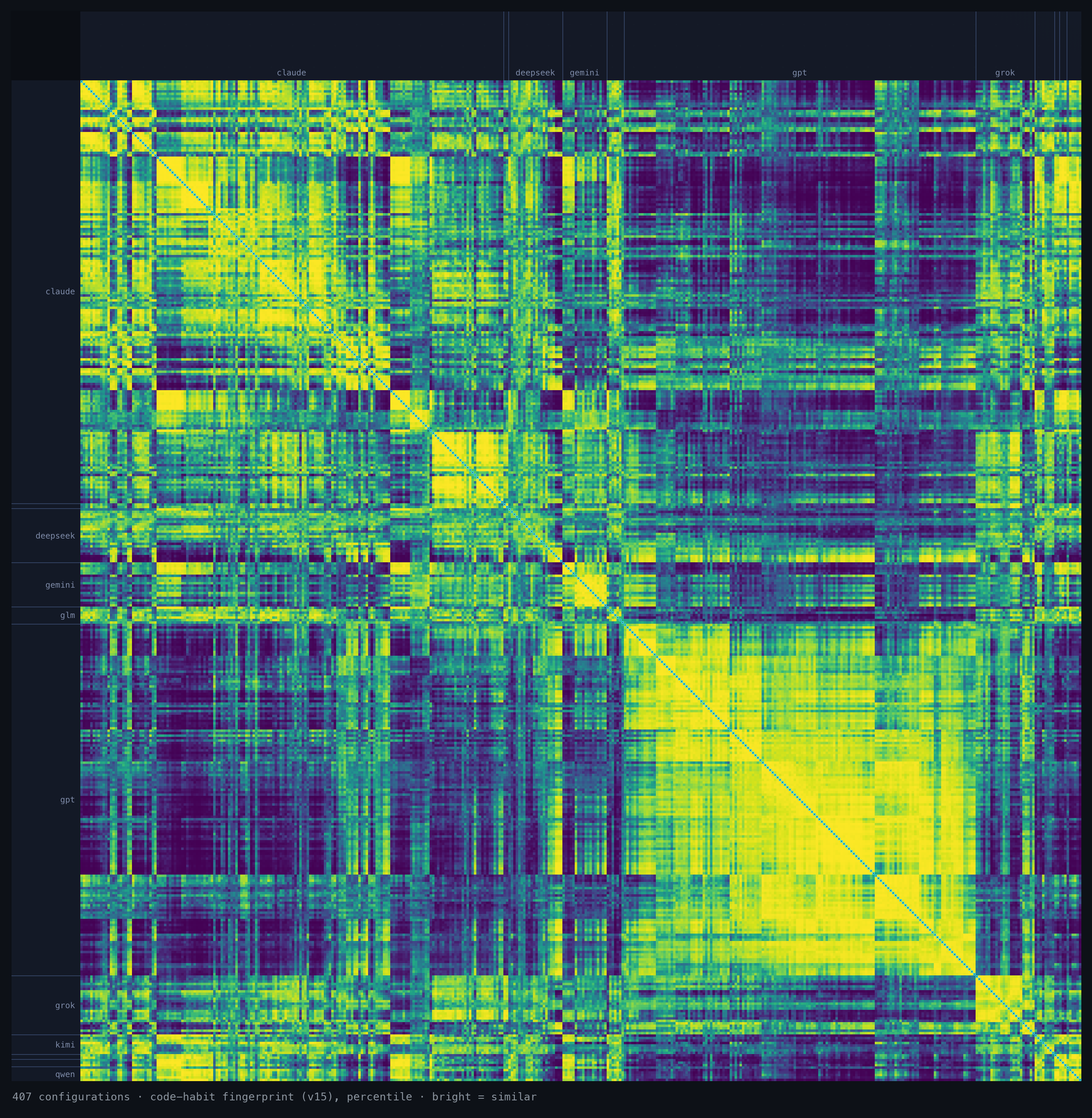
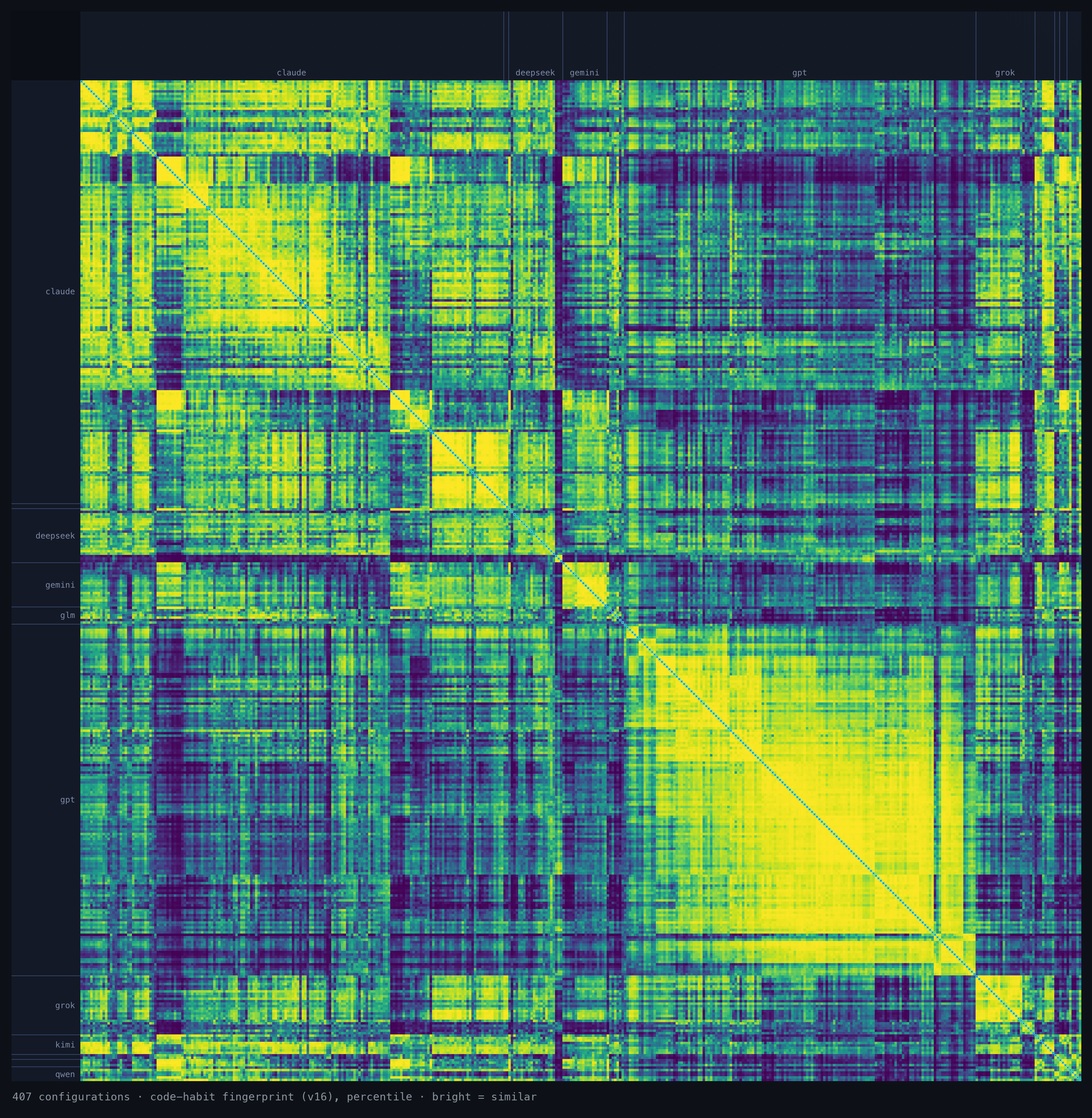
findings on fingerprint v16; withdraw the high-effort convergence claims
v15 pulled configs that resemble nobody (mostly long, high-effort cards)
towards each other. v16 takes card size out first and keeps a quarter of
the centering. Two claims rested on the inflation and are withdrawn: that
high-effort Claude and GPT converge, and that DeepSeek V4.1 sits in that
zone; the README says so in a correction note. What remains is the
directly counted defensive idioms. The other findings hold under every
scoring variant tested and carry v16 numbers; the GPT lineage is toned
down to an ordinary same-family level, and the shared-harness lift is
6-7 points, not 1-2. matrix.png shows the v16 view.

diff --git a/README.zh.md b/README.zh.md
@@ -31,9 +31,9 @@ MIT
 构建数据集过程中的描述性测量 —— 是信号,不是定论(单一 prompt 家族、小 N)。每一条都能在站点上回溯到产生它的原始数据。相似度相关的发现都基于**代码习惯指纹**([见下](#从矩阵里才看得到的)),描述的是*代码怎么写*,从不推断模型从哪来。
 
 - **Claude 2025 年的写法,比 Claude 自己活得久。** Claude Sonnet 4 / 4.5、Opus 4.5、Haiku 4.5 写得像 MiniMax M2.x、豆包 Seed 2.1 Pro、Grok 4.3、DeepSeek V3.2、Qwen3-Coder-Next 和 Gemini 3 Flash —— 却不再像 Claude Opus 4.8 / Claude 5。
-- **高 effort 下 Claude 和 GPT 开始写得一样 —— 而 DeepSeek V4.1 本来就这么写**,几乎任何 effort 档都是。
-- **有的厂商换代就换了一手写法,GPT 从来没换。** DeepSeek V4.1 和 Kimi K3 和自家前代断开了;GPT-6 写起来仍像 GPT-5。
-- **harness 改变模型画多少,不改变它怎么写。** 同一个模型换一个 harness,代码习惯不变;变的是外观,以及最主要的 —— 体量。
+- **有的厂商换代就换了一手写法。** DeepSeek V4.1 和 Kimi K3 和自家前代断开了;GPT-6 写起来仍是 GPT 的样子。
+- **高 effort 写得更"防御"。** 处理"减少动画"偏好、取消过期请求,在多数高 effort 的 Claude Opus 5.x 和 GPT Sol 卡里出现,低 effort 几乎从不出现。
+- **harness 改变模型画多少,不改变它怎么写。** 同一个模型换一个 harness,代码习惯不变;变的是体量。
 - **effort 能把输出体积翻好几倍 —— 某个模型上高达 14×。** 更多"思考"不是多写一点代码,可能是多一个数量级。
 - **在有些模型上,effort 旋钮测不出任何区别。** 参数被接受,输出纹丝不动。
 - **effort 梯子随代际变长。** GPT 的 `max` 档从 gpt-5.6 起才有 —— 更早的 GPT 模型一律不接受,更新的都有。
@@ -50,28 +50,29 @@ MIT
 
 ### 从矩阵里才看得到的
 
-> **这个数是什么。** 每一对 configuration 在十条代码通道上比较 —— token shingle、winnowing 指纹、特征集合、JS 语法树、CSS 属性与取值、布局、命名、颜色字面量、语义标记。每条通道先扣掉各个 config 自己的基线(有些卡跟*谁*都有点像,那不算像某一个具体的谁),再按"这条通道多能区分模型"学出来的权重合并,最后显示为**在全部跨配对中的百分位**:0.50 是两个不同厂商的一对典型配对,同一模型的两个 config 大约在 0.97。像素是单独的**外观**视角,不进这个分数。百分位相对于当前集合,集合变了就重新拟合。
+> **这个数是什么。** 每一对 configuration 在十条代码通道上比较 —— token shingle、winnowing 指纹、特征集合、JS 语法树、CSS 属性与取值、布局、命名、颜色字面量、语义标记。先去掉卡片体积的影响:原始相似度取决于两张卡有多长,所以每一对都和"同样两种体积的配对"的平均值比较。再扣掉每个 config"和谁都有点像"的四分之一,按"这条通道多能区分模型"学出来的权重合并,最后显示为**在全部跨配对中的百分位**:0.50 是两个不同厂商的一对典型配对,同一模型的两个 config 大约在 0.97。像素是单独的**外观**视角,不进这个分数。百分位相对于当前集合,集合变了就重新拟合。
 >
-> 为什么看代码不看像素:在按模型留出的交叉验证里,指纹认出同一模型的 **AUC 是 0.91**,认出同一家族 **0.74**,跨 effort 档认出同一模型 **0.90**;外观视角只有 **0.76 / 0.59**,旧的全通道等权合并是 **0.87 / 0.68**。卡片*长什么样*,各家越来越趋同;*怎么写*,则不然。
+> 为什么看代码不看像素:在按模型留出的交叉验证里,指纹认出同一模型的 **AUC 是 0.92**,认出同一家族 **0.74**,跨 effort 档认出同一模型 **0.92**;外观视角只有 **0.74 / 0.57**,旧的全通道等权合并是 **0.87 / 0.68**。卡片*长什么样*,各家越来越趋同;*怎么写*,则不然。
+>
+> **一处更正。** 这个分数的第一版(v15,上线了几天)把每个 config"和谁都像"的部分整个扣掉。这会把和谁都不像的 config —— 多是又长又高 effort 的卡 —— 推到一起,而这里发布过的两条发现正建立在它上面:高 effort 的 Claude 和 GPT 写法趋同,以及 DeepSeek V4.1 落在这个"前沿区"。直接处理卡片体积之后,两条都不成立,已撤回。方法论页有完整对比。
 
-下面的数字都是 585 个 configuration 集上的百分位,给两个数时是 `P-min` / `P-q`。是信号不是证明:单一 prompt 家族,而且有些模型 config 很少 —— 这些都标出来了。
+下面的数字都是 585 个 configuration 集上的百分位,给两个数时是 `P-min` / `P-q`。是信号不是证明:单一 prompt 家族,而且有些模型 config 很少 —— 这些都标出来了。下面每一条在我们测过的、认人能力不低于它的各种评分方案下都成立,不只是这里显示的这一种。
 
-- **家族是真实的分组。** 一个 config 和自己重跑最像(`P-min` 上 **0.958**),和自家家族次之(**0.699**),和别家最不像(**0.441**)。
-- **Claude 2025 年的写法,比 Claude 自己活得久。** Claude Sonnet 4 / 4.5、Opus 4.5、Haiku 4.5 和 MiniMax M2.1–M2.7、豆包 Seed 2.1 Pro、Grok 4.3、DeepSeek V3.2、Qwen3-Coder-Next、Gemini 3 Flash / 3.1 Pro 组成一个紧密的簇:跨厂商配对在两个 prompt 上都是 **0.96–1.00** —— 和同一模型的两个 config 一样近 —— 跨 harness、跨 effort、十条代码通道全部一致。Claude 自己却走开了:Claude 4.5 对 Claude Opus 4.8 / Claude 5 只有 **0.44 / 0.23**,和两个不相干的厂商一样远。一行标志性代码 `const today = new Date().toISOString().split('T')[0];` 出现在 63% 的 Claude Sonnet 4/4.5 卡、34% 的其他成员卡里,而 571 张 Claude Opus 4.8+ 卡一张都没有。同时期的 GPT 从未加入。
-- **高 effort 下 Claude 和 GPT 开始写得一样。** Claude Opus 5 / 5.5 和 GPT Sol 在 none–medium 档相距很远(**0.40 / 0.41**),到 xhigh 及以上却汇合(**0.90 / 0.78**),五个 harness 上都成立。普通跨家族配对从高 effort 里几乎得不到什么(0.37 → 0.43),所以这不是"长答案都相像"。共同的代码是防御型工程写法 —— `prefers-reduced-motion` 处理、用 `AbortController` 中止过期请求、`finally` 收尾 —— 低档 Sol 的卡几乎从不出现(0–2%)。这也解释了为什么**满档 Claude 5.5 离别家比离自家还近**(`claude-opus-5-5 @max`:`P-min` 上对 Claude **0.33**,对其余所有人 **0.56**)。
-- **DeepSeek V4.1 写在这个前沿区里。** 1017 构建对高档 Claude/GPT 这组是 **0.86 / 0.91** —— 其他厂商 49 个模型里最近的 —— 对低档 GPT Sol 只有 **0.54 / 0.37**,官方 API 和 DeepSeek 自家 dsh harness 上都成立。和 Claude、GPT 不同,它几乎任何 effort 档都到得了。0910 构建已经很近(**0.71 / 0.85**)。DeepSeek 的 dsh harness 比 API 更常出现这些防御写法(reduced-motion 88% 对 25% 的卡);指纹结论在两边都成立。
-- **有的厂商换代就换了一手写法,GPT 从来没换。** GPT-6 对 GPT-5.x 仍是 **0.86 / 0.81**(3,300 个 config 对)。DeepSeek V4.1 对所有更早的 DeepSeek:**0.56 / 0.49** —— 相当于不相干的一对 —— 而它自己的两个构建之间是 **0.82 / 0.89**。Kimi K3 对 Kimi K2.x:**0.56 / 0.55**;K3 反而更靠近 Claude Fable 5 / Opus 4.8(**0.84 / 0.82**,500+ 个 config 对)。
-- **代码是模型写的,不是 harness 写的。** 同一模型同一 effort 换一个 harness,是 **0.99 / 0.98** —— 和它自己重跑一样 —— 两个不同家族的模型共用一个 harness 也只多 1–2 个点。外观视角确实会动(跨 harness **0.88–0.89**,重跑是 **0.92–0.94**),体量动得最多。
-- **有些模型和自己都不像。** `kimi-k3 @high`(**0.51 / 0.61**)和 `deepseek-v4-pro-0812 @high`(`P-min` 上 **0.68**)自一致性最低 —— 多数重跑画得都不一样。全集有 105 个 config 拿得到读数:它需要同一 config 在同一变体下有好几次重跑。
+- **家族是真实的分组。** 一个 config 和自己重跑最像(`P-min` 上 **0.94**),和自家家族次之(**0.70**),和别家最不像(**0.44**)。
+- **Claude 2025 年的写法,比 Claude 自己活得久。** Claude Sonnet 4 / 4.5、Opus 4.5、Haiku 4.5 和 MiniMax M2.1–M2.7、豆包 Seed 2.1 Pro、Grok 4.3、DeepSeek V3.2、Qwen3-Coder-Next、Gemini 3 Flash / 3.1 Pro 组成一个紧密的簇:跨厂商配对在两个 prompt 上是 **0.87–1.00**,MiniMax 是 **0.98 / 0.98** —— 和同一模型的两个 config 一样近 —— 跨 harness、跨 effort、十条代码通道全部一致。Claude 自己却走开了:Claude 4.5 对 Claude Opus 4.8 / Claude 5 只有 **0.22 / 0.14**,比两个不相干的厂商还远。一行标志性代码 `const today = new Date().toISOString().split('T')[0];` 出现在 63% 的 Claude Sonnet 4/4.5 卡、34% 的其他成员卡里,而 571 张 Claude Opus 4.8+ 卡一张都没有。同时期的 GPT 从未加入。
+- **有的厂商换代就换了一手写法。** DeepSeek V4.1 对所有更早的 DeepSeek:**0.54 / 0.46** —— 相当于不相干的一对 —— 而它自己的两个构建之间是 **0.75 / 0.73**。Kimi K3 对 Kimi K2.x:**0.53 / 0.62**;K3 反而更靠近 Claude Fable 5 / Opus 4.8(**0.89 / 0.82**,400+ 个 config 对)。GPT-6 对 GPT-5.x 是 **0.75 / 0.73**,普通的同家族水平。
+- **高 effort 写得更"防御"。** 直接数卡片里的代码:`prefers-reduced-motion` 处理、用 `AbortController` 中止过期请求,出现在 55–69% 的高 effort(xhigh 及以上)Claude Opus 5.x 和 GPT Sol 卡里,低 effort 的 GPT Sol 卡只有 0–2%。DeepSeek V4.1 1017 的 API 卡有 25–33% 这样写,DeepSeek 自家 dsh harness 出的卡是 88%。在整份代码的指纹上,这**并不**让这些模型变得相像 —— 这是三种写法,不是共同的风格。
+- **代码是模型写的,不是 harness 写的。** 同一模型同一 effort 换一个 harness,是 **0.99 / 0.99** —— 和它自己重跑一样(**0.98 / 0.99**)—— 两个不同家族的模型共用一个 harness 只多 6–7 个点(**0.49** 对 **0.42**),而"同一模型"和"不同厂商"之间差了约 50 个点。harness 真正改变的是体量。
+- **有些模型和自己都不像。** `deepseek-v4-flash-vision-exp @high`(`P-min` 上 **0.40**)、`kimi-k2.7-code`(**0.41**)和 `kimi-k3 @high`(**0.45 / 0.40**)自一致性最低 —— 多数重跑画得都不一样。全集有 105 个 config 拿得到读数:它需要同一 config 在同一变体下有好几次重跑。
 
 **值得一提的配对** —— 信号强,但样本小:
 
-- **Qwen3.8-Max-Preview 写得像 Claude Opus 4.6**(**1.00 / 1.00**,比像任何 Qwen 都近),连 HTML 转义 helper `var d = document.createElement('div')` 都一样 —— 64% 的 Opus 4.6 卡有它,别处几乎没有。只有一个 config、4 张卡。MiMo-V2.5-Pro 也有同样的拉力(**0.97 / 0.96**,66 个 config 对)。
-- **Cursor 的 Composer 2.5 写得像 Grok 4.5**(**0.98 / 0.94**,跨四个 Grok harness),CSS 词汇一模一样(`--bg-deep`、`--card-bg: rgba(255,255,255,0.07)`);`--bg-deep` 在其余 2,436 张卡里只出现 2 次。只有一个 config、8 张卡。
+- **Qwen3.8-Max-Preview 写得像 Claude Opus 4.6**(**0.99 / 0.99**,比像任何 Qwen 都近),连 HTML 转义 helper `var d = document.createElement('div')` 都一样 —— 64% 的 Opus 4.6 卡有它,别处几乎没有。只有一个 config、4 张卡。MiMo-V2.5-Pro 也有同样的拉力(**0.92 / 0.92**,66 个 config 对)。
+- **Cursor 的 Composer 2.5 写得像 Grok 4.5**(**0.99 / 0.98**,跨四个 Grok harness),CSS 词汇一模一样(`--bg-deep`、`--card-bg: rgba(255,255,255,0.07)`);`--bg-deep` 在其余 2,436 张卡里只出现 2 次。只有一个 config、8 张卡。
 
 **厂商在固定型号名下换掉了模型 —— 几把尺子对此意见不一。** DeepSeek 于 2026-07-31 对 `deepseek-v4-flash` 重做了 post-training,API 型号名不变(官方原话:架构与参数量不变,"only re-post-trained")。我们手上有一份 **2026-07-19** 的采集,正好在更新之前,于是两个纪元并排留在集合里。
 
-在**代码指纹**上,这次变化在一个 effort 档看得见,换一个档就消失:`high` 档两个纪元互相是 **0.78 / 0.83**,而各自重跑在 **0.90–0.99**;`max` 档互相是 **0.87 / 0.93**,重跑是 **0.88–0.95** —— 落在噪声里。
+在**代码指纹**上,这次变化几乎看不出来:`high` 档两个纪元互相是 **0.90 / 0.93**,而各自重跑在 **0.95–0.99**;`max` 档互相是 **0.92 / 0.94**,重跑是 **0.90–0.96** —— 落在噪声里。
 
 但在**输出体积**这条轴上,同一个变化明显到无法忽视。**同一个 effort 档位**下,新纪元的 completion token 涨了 **2–4 倍** —— `high`/`P-min` 中位数 6,546 → 25,972(**4.0×**),`high`/`P-q` 12,376 → 52,332(**4.2×**)—— 而且四格里有三格两个纪元的 token 区间**完全不相交**(逐 slot 两两比较,P(新 > 旧) = **0.961**)。它那两个失败的 slot 正是同一效应的尾巴:写到撑破厂商 65,536 的输出上限还没收尾。
 

diff --git a/README.md b/README.md
@@ -41,13 +41,13 @@ they describe *how the code is written*, never where a model came from.
 - **Claude's 2025 coding style outlived Claude.** Claude Sonnet 4 / 4.5, Opus 4.5 and
   Haiku 4.5 write like MiniMax M2.x, Doubao Seed 2.1 Pro, Grok 4.3, DeepSeek V3.2,
   Qwen3-Coder-Next and Gemini 3 Flash — and no longer like Claude Opus 4.8 / Claude 5.
-- **At high effort, Claude and GPT start writing alike — and DeepSeek V4.1 already
-  writes that way**, at almost any effort setting.
-- **Some labs change hands between generations; GPT never does.** DeepSeek V4.1 and
-  Kimi K3 broke with their own lineage; GPT-6 still writes like GPT-5.
+- **Some labs change hands between generations.** DeepSeek V4.1 and Kimi K3 broke
+  with their own lineage; GPT-6 still writes like a GPT.
+- **High effort writes defensively.** Reduced-motion handling and cancelling stale
+  requests show up in most high-effort Claude Opus 5.x and GPT Sol cards and almost
+  never at low effort.
 - **The harness changes how much a model draws — not how it writes.** Through a
-  different harness the same model keeps its code habits; what moves is the look and,
-  above all, the volume.
+  different harness the same model keeps its code habits; what moves is the volume.
 - **Effort multiplies output size — up to 14× on one model.** More "thinking" doesn't
   mean a little more code; it can mean an order of magnitude more.
 - **On some models the effort knob does nothing measurable.** The parameter is
@@ -76,8 +76,9 @@ here is a **measurement, not a quality score** — it captures convergence, noth
 > **What the number is.** Each pair of configurations is compared on ten
 > code channels — token shingles, winnowed fingerprints, feature sets, the JS syntax
 > tree, CSS properties and values, layout, naming, colour literals, semantic markup.
-> Each channel is first corrected for each config's baseline (some cards resemble
-> *everything* a little; that is not resemblance to anyone in particular), then the
+> Card size comes out first: raw similarity depends on how long the two cards are, so
+> each pair is compared with the average for pairs of the same two sizes. Then a
+> quarter of each config's general resemblance to everything is taken off, the
 > channels are combined with weights learned by how well each one tells models apart,
 > and the result is shown as a **percentile among all cross pairs**: 0.50 is a typical
 > pair from two different labs, two configs of the same model sit around 0.97. The
@@ -85,65 +86,65 @@ here is a **measurement, not a quality score** — it captures convergence, noth
 > relative to the current set and are refitted when it changes.
 >
 > Why code and not pixels: in leave-models-out cross-validation the fingerprint
-> recognises the same model at **AUC 0.91** and the same family at **0.74**, and the
-> same model *across effort levels* at **0.90**; the looks view manages **0.76 /
-> 0.59**, and the old equal-weight merge of every channel **0.87 / 0.68**. How a card
+> recognises the same model at **AUC 0.92**, the same family at **0.74**, and the
+> same model *across effort levels* at **0.92**; the looks view manages **0.74 /
+> 0.57**, and the old equal-weight merge of every channel **0.87 / 0.68**. How a card
 > *looks* converges across labs; how it is *written* does not.
+>
+> **A correction.** The first version of this score (v15, live for a few days)
+> subtracted each config's whole general resemblance. That pulled configs that
+> resemble nobody — mostly long, high-effort cards — towards each other, and two
+> findings published here rested on it: that high-effort Claude and GPT converge, and
+> that DeepSeek V4.1 sits in that "frontier zone". With card size handled directly
+> neither holds, and both are withdrawn. The methodology page has the comparison.
 
 All figures are percentiles on the 585-configuration set, `P-min` / `P-q` where both
 are given. Signals, not proof: one prompt family, and some models have few configs —
-those are marked.
+those are marked. Every finding below holds under each of the scoring variants we
+tested that identify models at least as well as this one, not just the one shown.
 
-- **Family is a real grouping.** A config agrees with its own re-runs most (**0.958**
-  on `P-min`), with its own family next (**0.699**), and with other families least
-  (**0.441**).
+- **Family is a real grouping.** A config agrees with its own re-runs most (**0.94**
+  on `P-min`), with its own family next (**0.70**), and with other families least
+  (**0.44**).
 - **Claude's 2025 coding style outlived Claude.** Claude Sonnet 4 / 4.5, Opus 4.5 and
   Haiku 4.5 form one tight cluster with MiniMax M2.1–M2.7, Doubao Seed 2.1 Pro, Grok
   4.3, DeepSeek V3.2, Qwen3-Coder-Next and Gemini 3 Flash / 3.1 Pro: cross-lab pairs
-  score **0.96–1.00** on both prompts — as close as two configs of one model — across
-  harnesses, efforts and all ten code channels. Claude itself moved on: Claude 4.5
-  against Claude Opus 4.8 / Claude 5 scores **0.44 / 0.23**, no closer than two
-  unrelated labs. One telltale line, `const today = new Date().toISOString().split('T')[0];`,
-  is in 63% of Claude Sonnet 4/4.5 cards, 34% of the other members' cards, and in
-  none of 571 Claude Opus 4.8+ cards. GPT models of the same period never joined.
-- **At high effort, Claude and GPT start writing alike.** Claude Opus 5 / 5.5 and GPT
-  Sol are far apart at none–medium effort (**0.40 / 0.41**) but meet at xhigh and above
-  (**0.90 / 0.78**), across five harnesses. Ordinary cross-family pairs gain almost
-  nothing from high effort (0.37 → 0.43), so this is not "long answers look alike". The
-  shared code is defensive engineering — `prefers-reduced-motion` handling, aborting
-  stale requests with `AbortController`, `finally` clean-up — which low-effort Sol cards
-  almost never contain (0–2%). It also explains why **max-effort Claude 5.5 sits closer
-  to other labs than to its own family** (`claude-opus-5-5 @max`: **0.33** to Claude,
-  **0.56** to everyone else on `P-min`).
-- **DeepSeek V4.1 writes in that frontier zone.** The 1017 build scores **0.86 / 0.91**
-  against the high-effort Claude/GPT set — the closest of 49 models from other labs —
-  and **0.54 / 0.37** against low-effort GPT Sol, on both the official API and
-  DeepSeek's own dsh harness. Unlike Claude and GPT, it gets there at almost any effort
-  setting. The 0910 build was already close (**0.71 / 0.85**). DeepSeek's dsh harness
-  carries the defensive idioms far more often than the API arm (reduced-motion 88% vs
-  25% of cards); the fingerprint result holds on both.
-- **Some labs change hands between generations; GPT never does.** GPT-6 still scores
-  **0.86 / 0.81** against GPT-5.x (3,300 config pairs). DeepSeek V4.1 against every
-  earlier DeepSeek: **0.56 / 0.49** — an unrelated pair — while its own two builds
-  agree at **0.82 / 0.89**. Kimi K3 against Kimi K2.x: **0.56 / 0.55**; K3 sits closer
-  to Claude Fable 5 / Opus 4.8 (**0.84 / 0.82**, 500+ config pairs).
+  score **0.87–1.00** on both prompts, MiniMax at **0.98 / 0.98** — as close as two
+  configs of one model — across harnesses, efforts and all ten code channels. Claude
+  itself moved on: Claude 4.5 against Claude Opus 4.8 / Claude 5 scores **0.22 /
+  0.14**, farther apart than two unrelated labs. One telltale line,
+  `const today = new Date().toISOString().split('T')[0];`, is in 63% of Claude Sonnet
+  4/4.5 cards, 34% of the other members' cards, and in none of 571 Claude Opus 4.8+
+  cards. GPT models of the same period never joined.
+- **Some labs change hands between generations.** DeepSeek V4.1 against every earlier
+  DeepSeek: **0.54 / 0.46** — an unrelated pair — while its own two builds agree at
+  **0.75 / 0.73**. Kimi K3 against Kimi K2.x: **0.53 / 0.62**; K3 sits closer to Claude
+  Fable 5 / Opus 4.8 (**0.89 / 0.82**, 400+ config pairs). GPT-6 against GPT-5.x stays
+  at **0.75 / 0.73**, an ordinary same-family level.
+- **High effort writes defensively.** Counted directly in the cards: `prefers-reduced-motion`
+  handling and aborting stale requests with `AbortController` appear in 55–69% of
+  high-effort (xhigh and above) Claude Opus 5.x and GPT Sol cards, and in 0–2% of
+  low-effort GPT Sol cards. DeepSeek V4.1 1017 writes them in 25–33% of its API cards
+  and in 88% of the cards from DeepSeek's own dsh harness. On the whole-code
+  fingerprint this does *not* make those models alike — it is three idioms, not a
+  shared style.
 - **The harness doesn't write the code; the model does.** The same model at the same
-  effort through a different harness scores **0.99 / 0.98** — the same as its own
-  re-runs — and two different-family models gain only 1–2 points from sharing a
-  harness. The looks view does move (**0.88–0.89** across harnesses vs **0.92–0.94** for
-  re-runs), and output volume moves most of all.
-- **Some models barely agree with themselves.** `kimi-k3 @high` (**0.51 / 0.61**) and
-  `deepseek-v4-pro-0812 @high` (**0.68** on `P-min`) have the lowest self-consistency —
-  a different card most re-runs. 105 configs have a reading at all: it needs several
-  re-runs of one config in one variant.
+  effort through a different harness scores **0.99 / 0.99** — the same as its own
+  re-runs (**0.98 / 0.99**) — while two different-family models gain only 6–7 points
+  from sharing a harness (**0.49** vs **0.42**), against a gap of about 50 between
+  "same model" and "different lab". What the harness does move is the volume.
+- **Some models barely agree with themselves.** `deepseek-v4-flash-vision-exp @high`
+  (**0.40** on `P-min`), `kimi-k2.7-code` (**0.41**) and `kimi-k3 @high` (**0.45 /
+  0.40**) have the lowest self-consistency — a different card most re-runs. 105
+  configs have a reading at all: it needs several re-runs of one config in one variant.
 
 **Notable pairs** — strong signals on small samples:
 
-- **Qwen3.8-Max-Preview writes like Claude Opus 4.6** (**1.00 / 1.00**, closer than to
+- **Qwen3.8-Max-Preview writes like Claude Opus 4.6** (**0.99 / 0.99**, closer than to
   any Qwen), down to the same `var d = document.createElement('div')` HTML-escaping
   helper found in 64% of Opus 4.6 cards and almost nowhere else. One config, 4 cards.
-  MiMo-V2.5-Pro shows the same pull (**0.97 / 0.96**, 66 config pairs).
-- **Cursor's Composer 2.5 writes like Grok 4.5** (**0.98 / 0.94**, across four Grok
+  MiMo-V2.5-Pro shows the same pull (**0.92 / 0.92**, 66 config pairs).
+- **Cursor's Composer 2.5 writes like Grok 4.5** (**0.99 / 0.98**, across four Grok
   harnesses), sharing its exact CSS vocabulary (`--bg-deep`,
   `--card-bg: rgba(255,255,255,0.07)`); `--bg-deep` appears in 2 of the other 2,436
   cards. One config, 8 cards.
@@ -154,10 +155,10 @@ API string ("same model architecture and size … only re-post-trained"). We hol
 capture from **2026-07-19**, before it landed, so both epochs sit in the set side by
 side.
 
-On the **code fingerprint** the change shows at one effort and vanishes at the other:
-at `high` the two epochs score **0.78 / 0.83** against each other while each epoch's
-own re-runs sit at **0.90–0.99**; at `max` they score **0.87 / 0.93** against re-runs
-of **0.88–0.95** — inside noise.
+On the **code fingerprint** the change barely registers: at `high` the two epochs
+score **0.90 / 0.93** against each other while each epoch's own re-runs sit at
+**0.95–0.99**; at `max` they score **0.92 / 0.94** against re-runs of **0.90–0.96** —
+inside noise.
 
 On the **output-volume** axis the same change is unmissable. At an identical effort
 setting the new epoch emits **2–4× more completion tokens** — median 6,546 → 25,972
